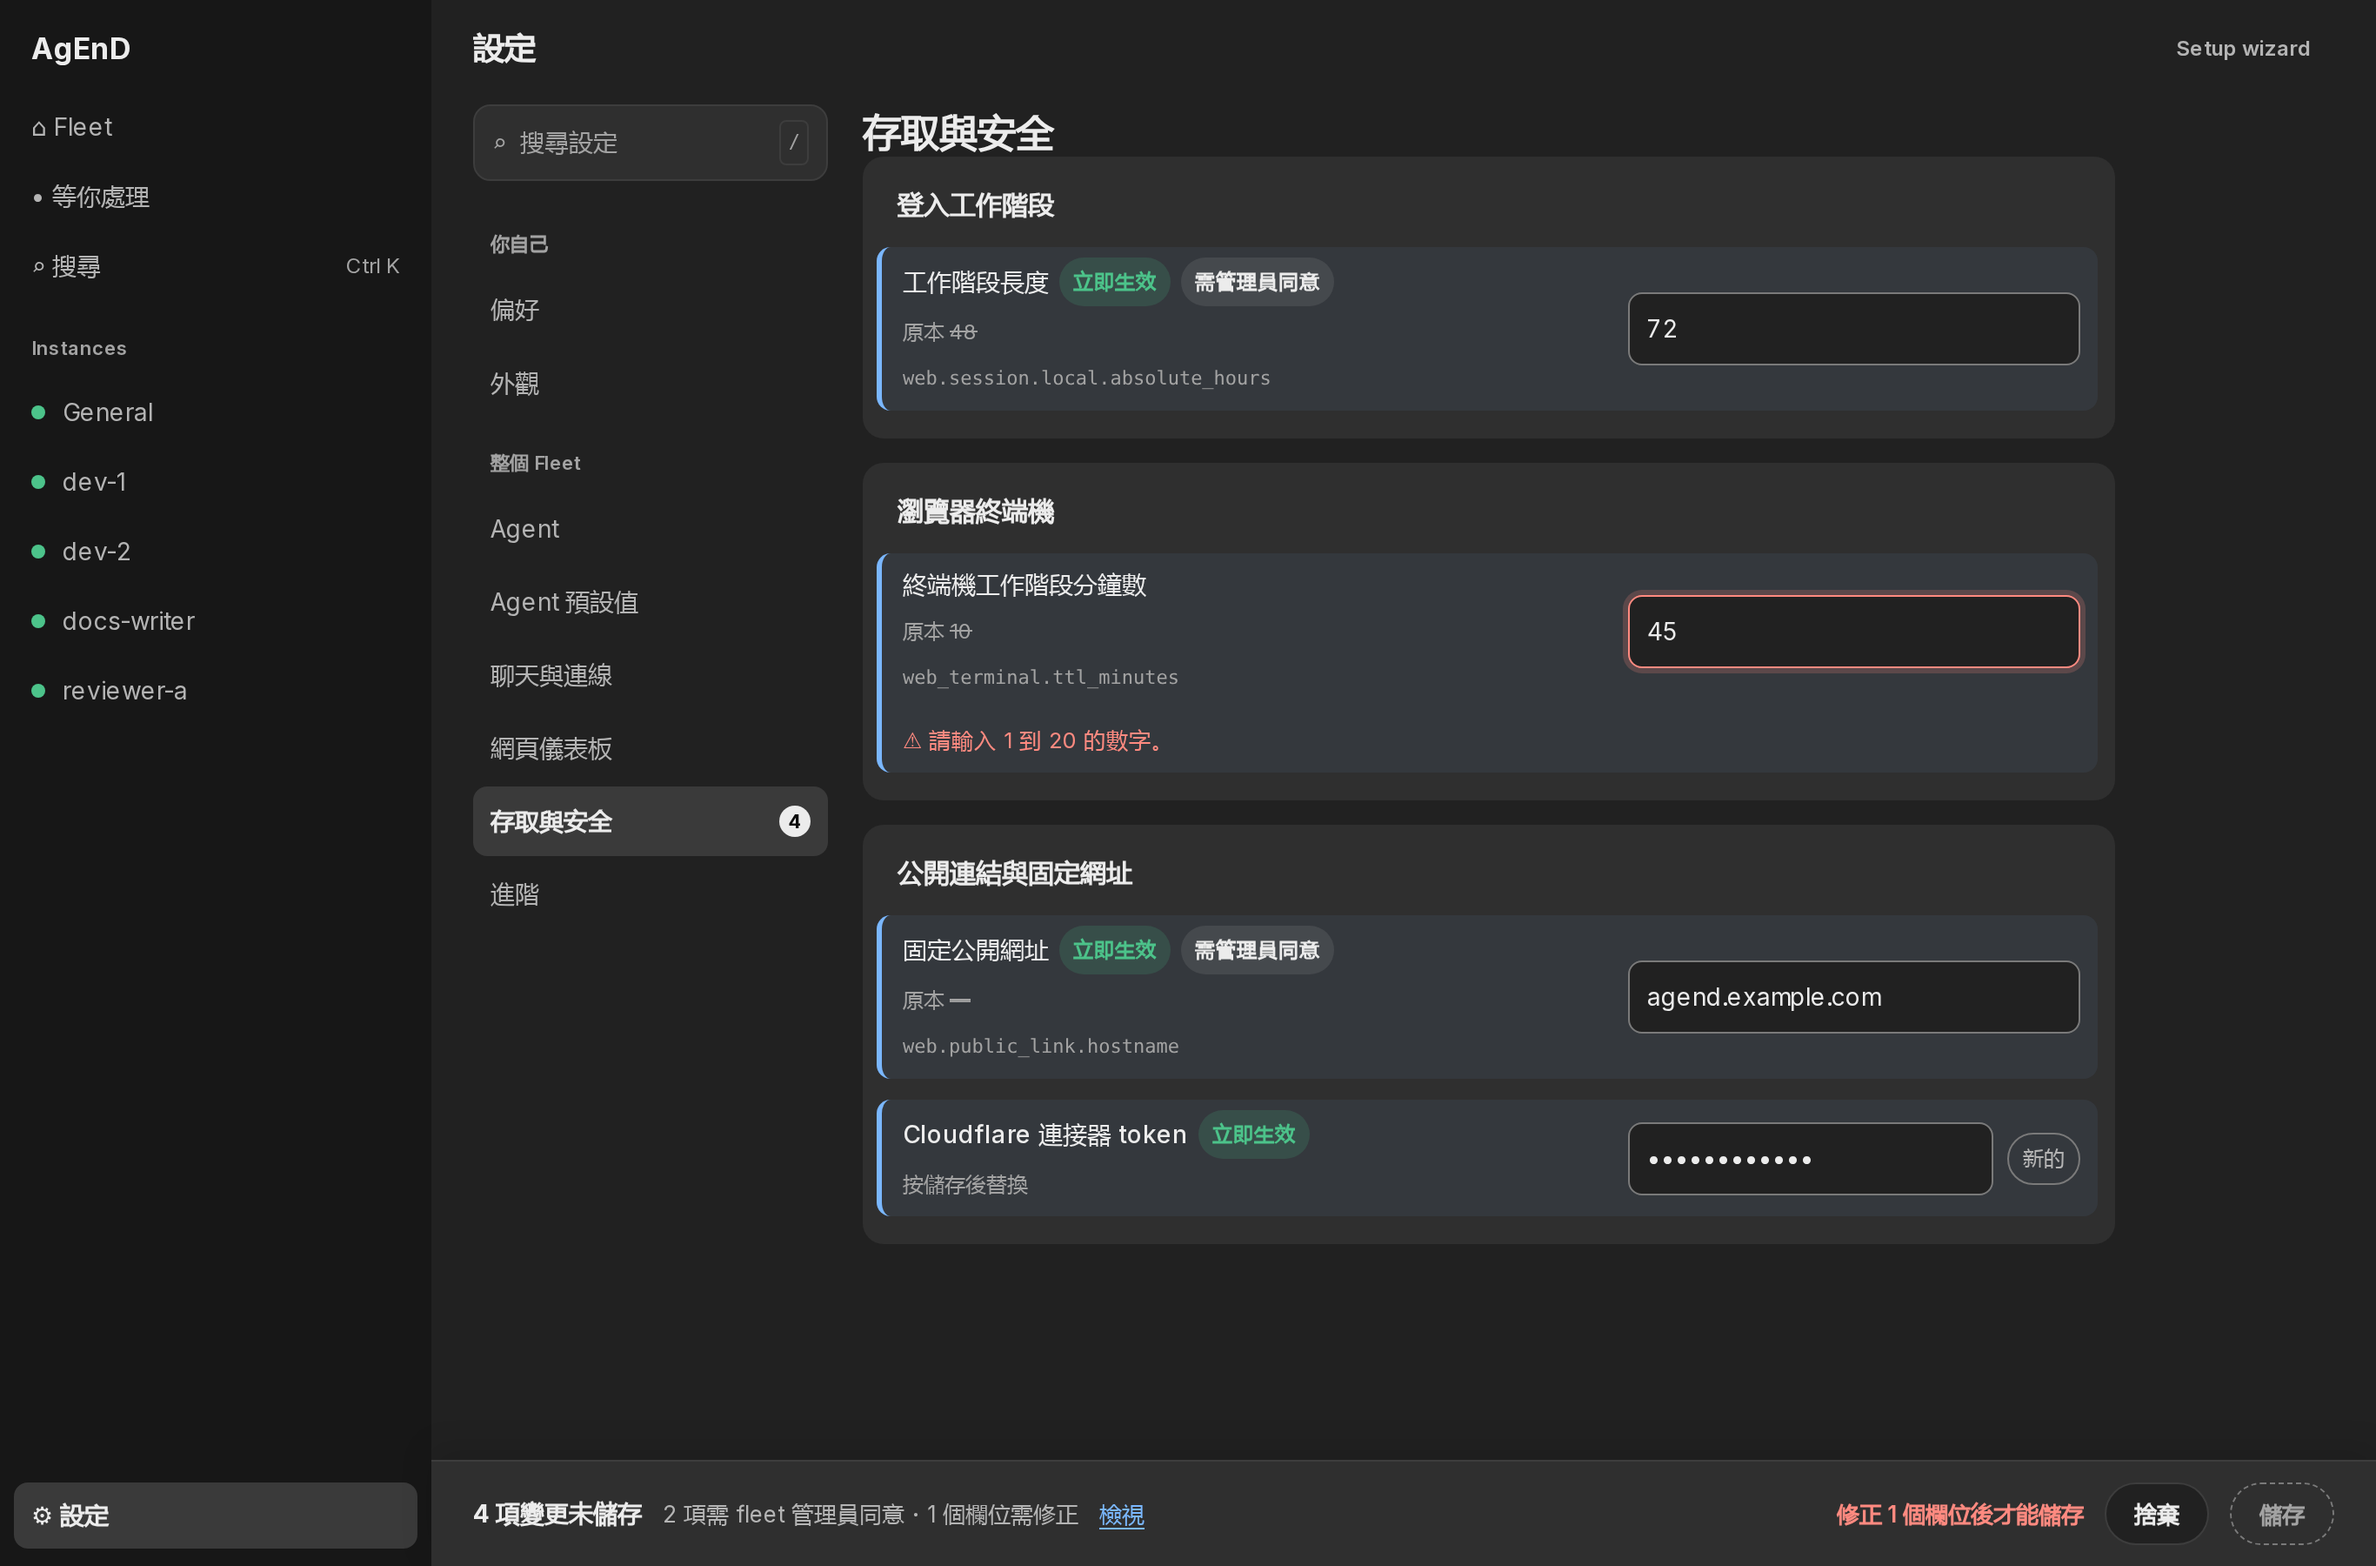
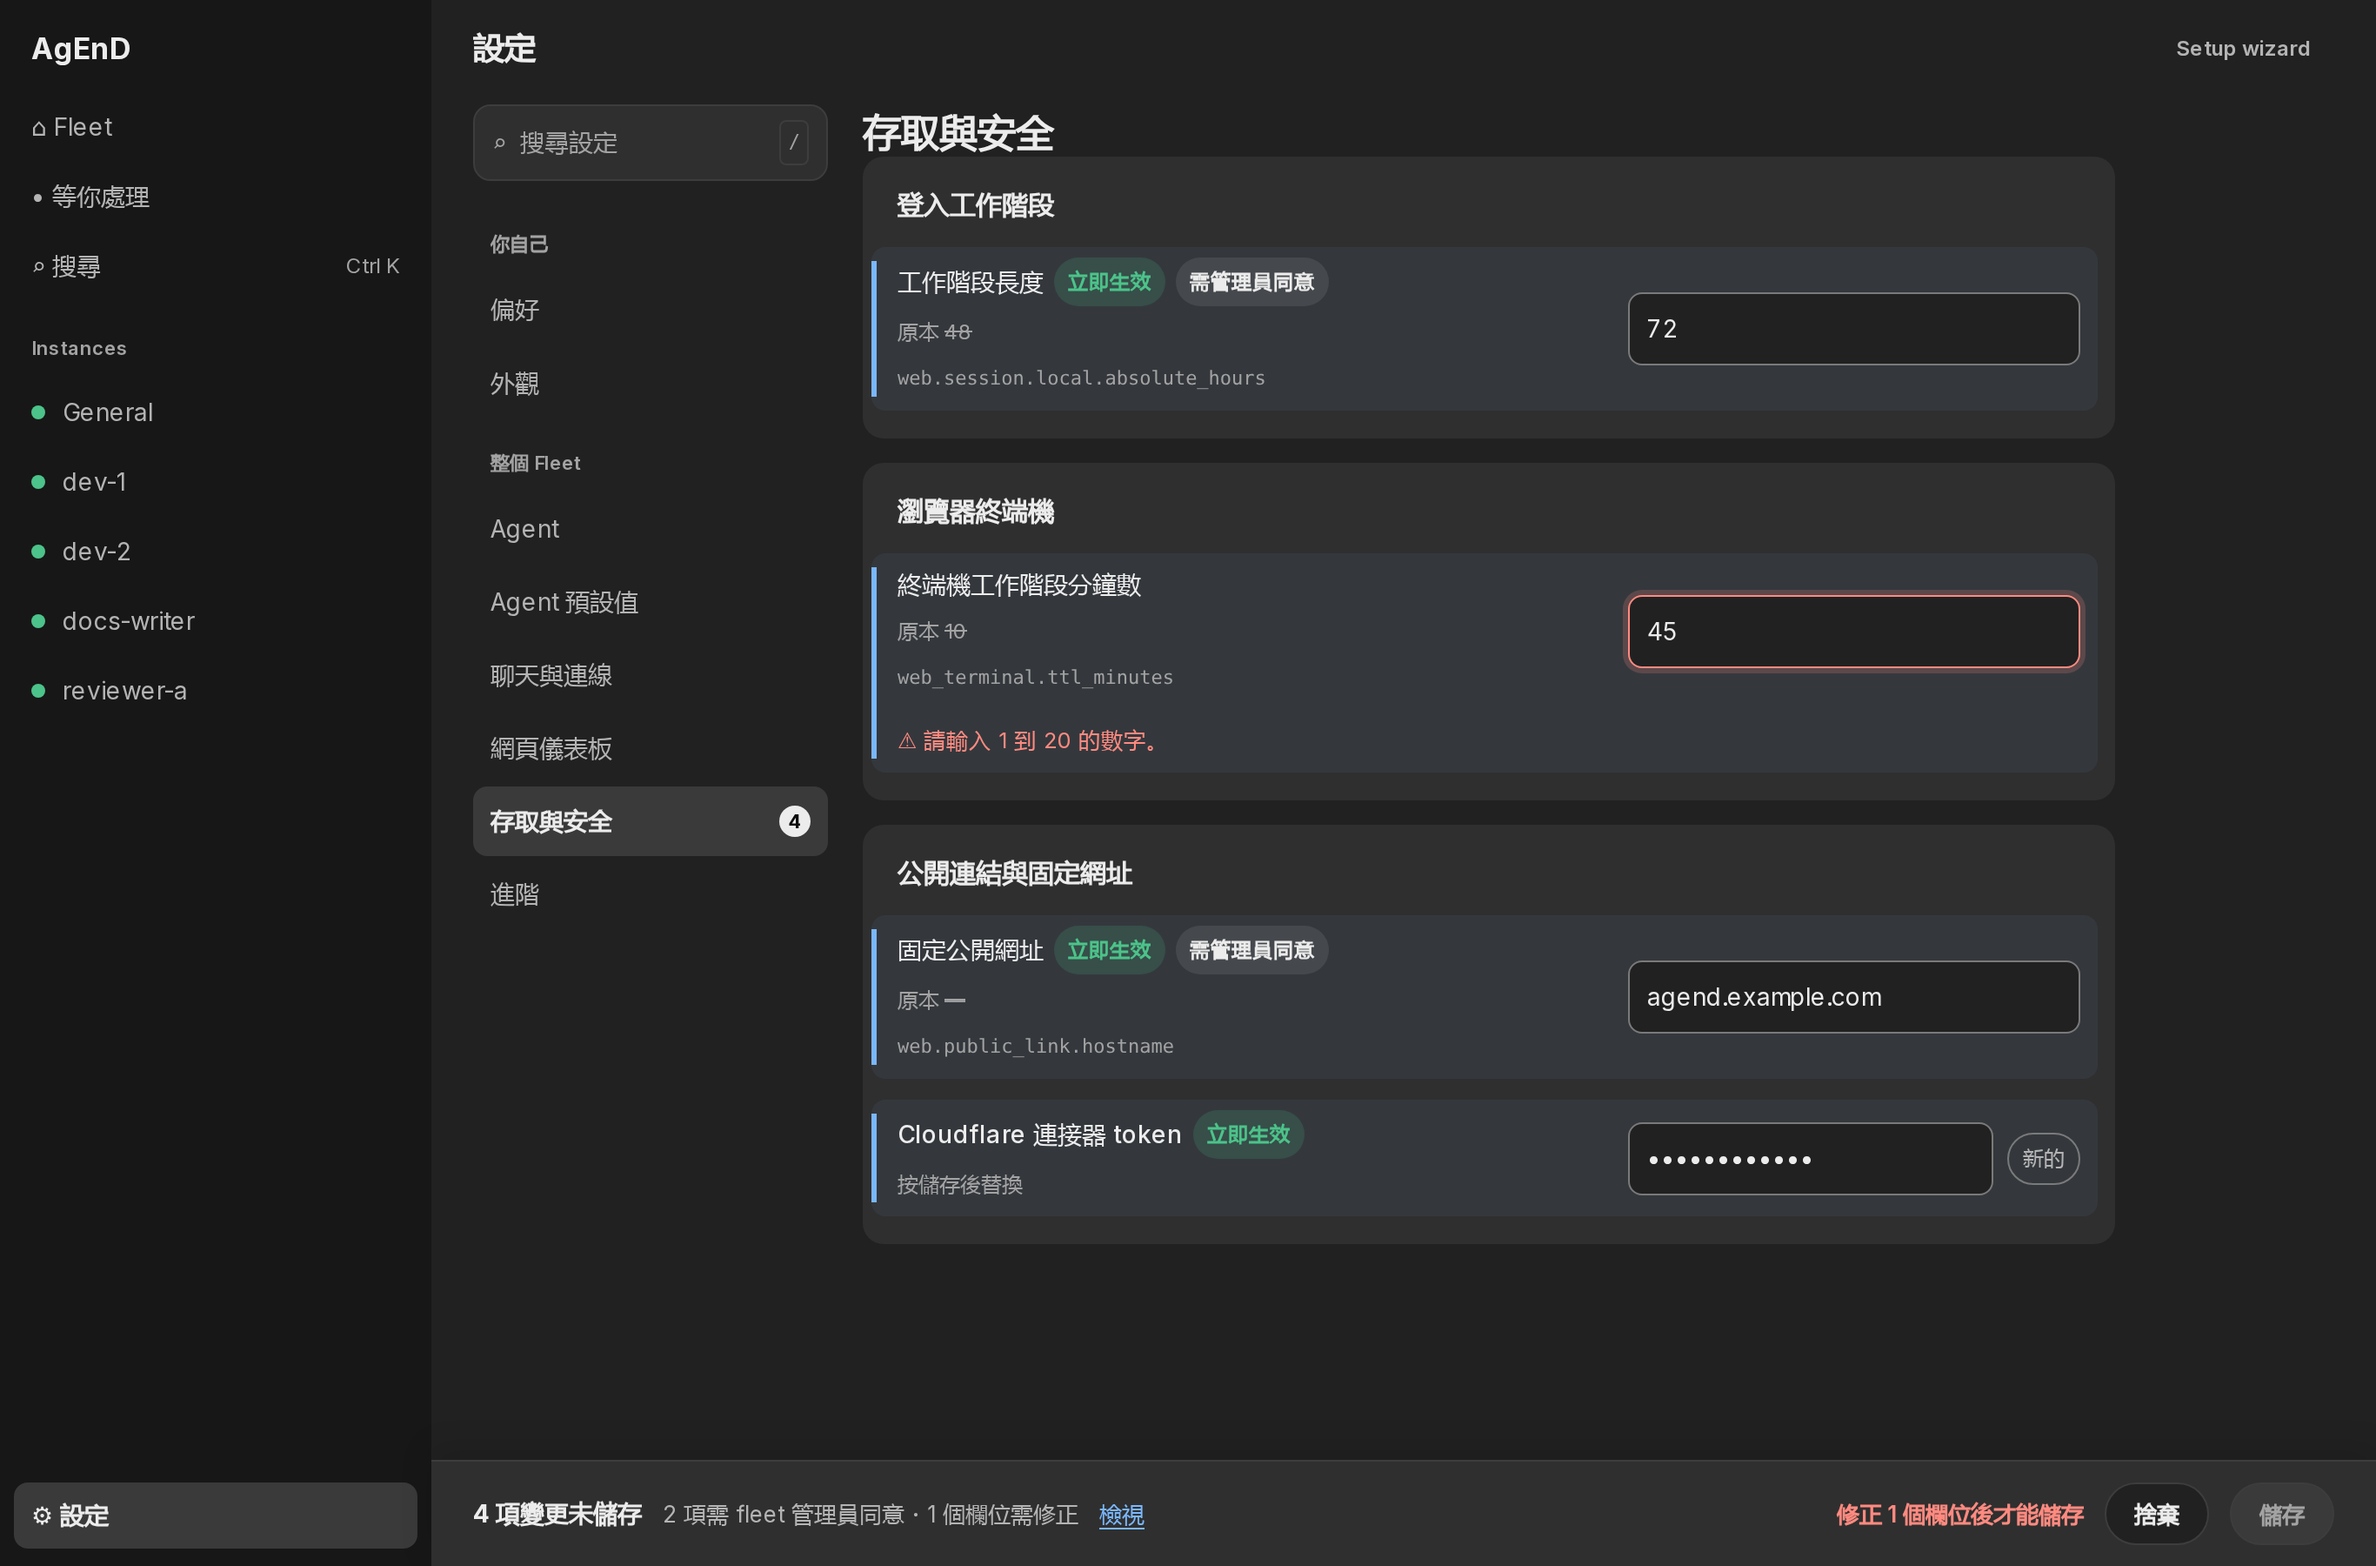
assets: Settings mockups — the edited-field accent is the shared straight bar (.lbar, #2330); disabled Save muted

diff --git a/source-mock.css b/source-mock.css
@@ -29,7 +29,7 @@ html, body { margin: 0; height: 100%; background: var(--bg); color: var(--text);
 .sx-card { background: var(--surface); border-radius: 12px; padding: 16px 20px; margin-bottom: 14px; display: flex; flex-direction: column; gap: 12px; }
 .sx-card h3 { margin: 0; font-size: 15px; }
 .sx-card .sx-cardnote { font-size: 12.5px; color: var(--text-3); margin: -6px 0 0; }
-.sx-field { display: grid; grid-template-columns: 1fr 260px; gap: 16px; align-items: center; padding: 8px 10px 8px 12px; margin: 0 -10px 0 -12px; border-radius: 8px; border-left: 3px solid transparent; }
+.sx-field { display: grid; grid-template-columns: 1fr 260px; gap: 16px; align-items: center; padding: 8px 10px 8px 15px; margin: 0 -10px 0 -15px; border-radius: 8px; }
 .sx-field .sx-lab { font-size: 14px; font-weight: 500; }
 .sx-field .sx-help { font-size: 12.5px; color: var(--text-3); margin-top: 2px; }
 .sx-field .sx-key { font-family: ui-monospace, Menlo, monospace; font-size: 11px; color: var(--text-3); margin-top: 3px; }
@@ -42,7 +42,8 @@ html, body { margin: 0; height: 100%; background: var(--bg); color: var(--text);
 .sx-toggle.on { background: var(--accent-fill, var(--accent)); border-color: transparent; }
 .sx-toggle.on::after { left: 18px; background: #fff; }
 /* An unsaved field: the accent edge, a dot, what it was, and its effect. */
-.sx-field.dirty { border-left-color: var(--accent); background: color-mix(in srgb, var(--accent) 7%, transparent); }
+/* #2330: the left accent is the shared straight bar (.lbar: 3px, inset top and bottom, square), never a rounded border. */
+.sx-field.dirty { --lbar-color: var(--accent); background: color-mix(in srgb, var(--accent) 7%, transparent); }
 .sx-was { font-size: 12px; color: var(--text-3); margin-top: 3px; }
 .sx-was s { color: var(--text-3); }
 .sx-tag { display: inline-flex; align-items: center; gap: 4px; font-size: 11.5px; font-weight: 600; padding: 2px 8px; border-radius: 999px; margin-left: 6px; vertical-align: 1px; }
@@ -131,3 +132,4 @@ html, body { margin: 0; height: 100%; background: var(--bg); color: var(--text);
 .mk-desk .sx-field { padding-top: 6px; padding-bottom: 6px; }
 
 .sx-bar .btn-primary:disabled, .sx-bar .btn-primary[disabled] { opacity: 1 !important; background: transparent !important; color: var(--text-3) !important; border: 1px dashed var(--border-strong, var(--border)) !important; }
+.sx-bar .btn-primary:disabled, .sx-bar .btn-primary[disabled] { background: var(--surface-2) !important; color: var(--text-3) !important; border: 1px solid var(--border) !important; }

diff --git a/source-gen.py b/source-gen.py
@@ -94,7 +94,7 @@ def field(lab, help_, control, key=None, dirty=None, tags=(), err=None):
     was = f'<div class="sx-was">{dirty}</div>' if dirty else ""
     keyl = f'<div class="sx-key">{key}</div>' if key else ""
     errl = f'<div class="sx-errmsg">⚠ {err}</div>' if err else ""
-    return f"""<div class="sx-field{' dirty' if dirty or tags else ''}"><div><div class="sx-lab">{lab}{tg}</div><div class="sx-help">{help_}</div>{was}{keyl}</div>{control}{errl}</div>"""
+    return f"""<div class="sx-field{' dirty lbar' if dirty or tags else ''}"><div><div class="sx-lab">{lab}{tg}</div><div class="sx-help">{help_}</div>{was}{keyl}</div>{control}{errl}</div>"""
 
 def inp(v, ph=False, err=False): return f'<div class="sx-input{" ph" if ph else ""}{" err" if err else ""}">{v}</div>'
 def tog(on): return f'<div class="sx-toggle{" on" if on else ""}"></div>'
